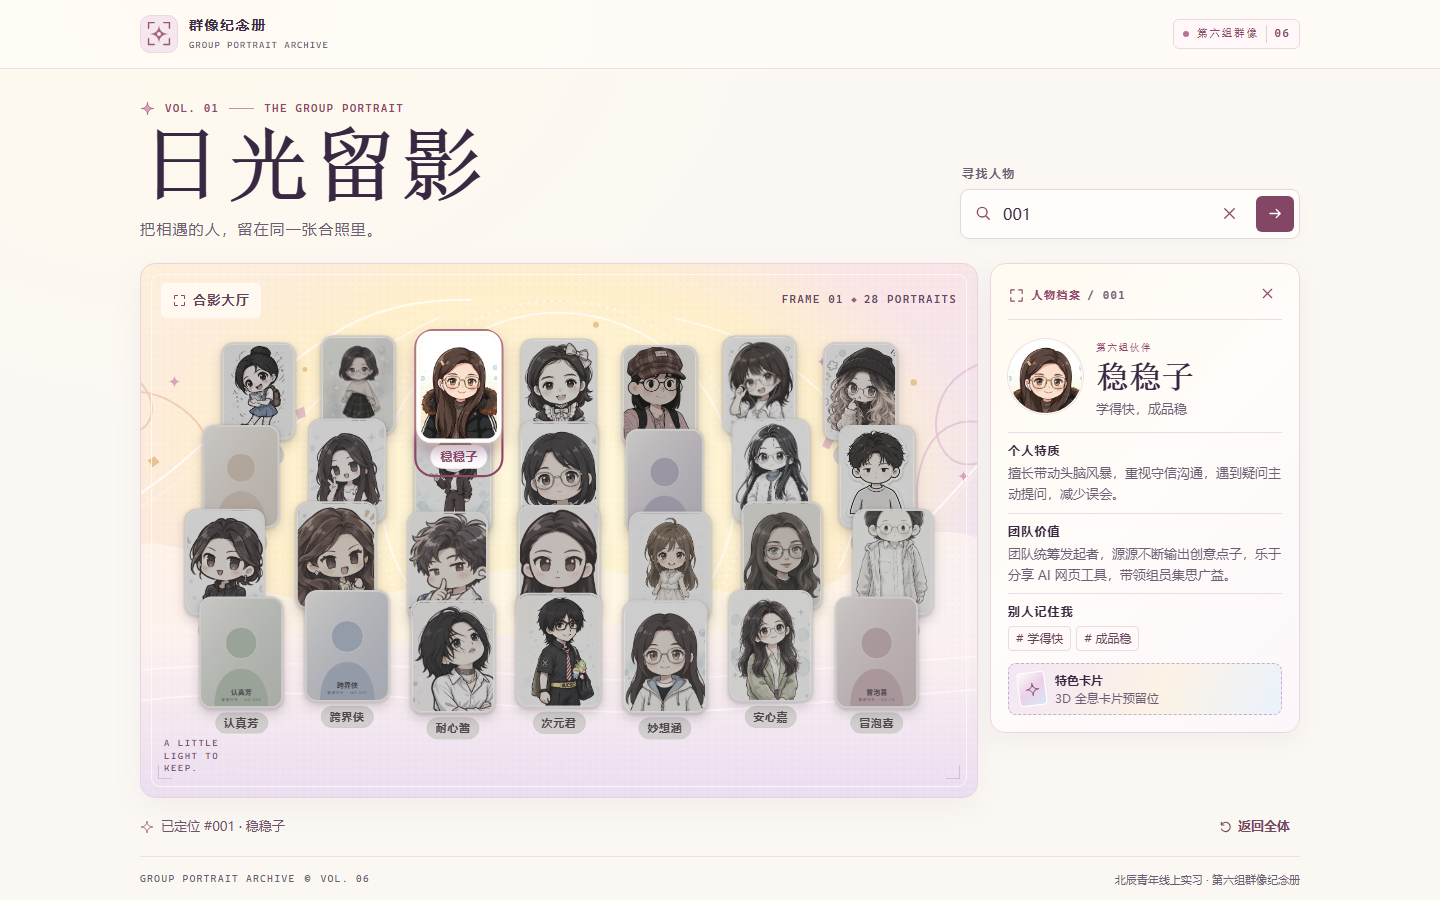
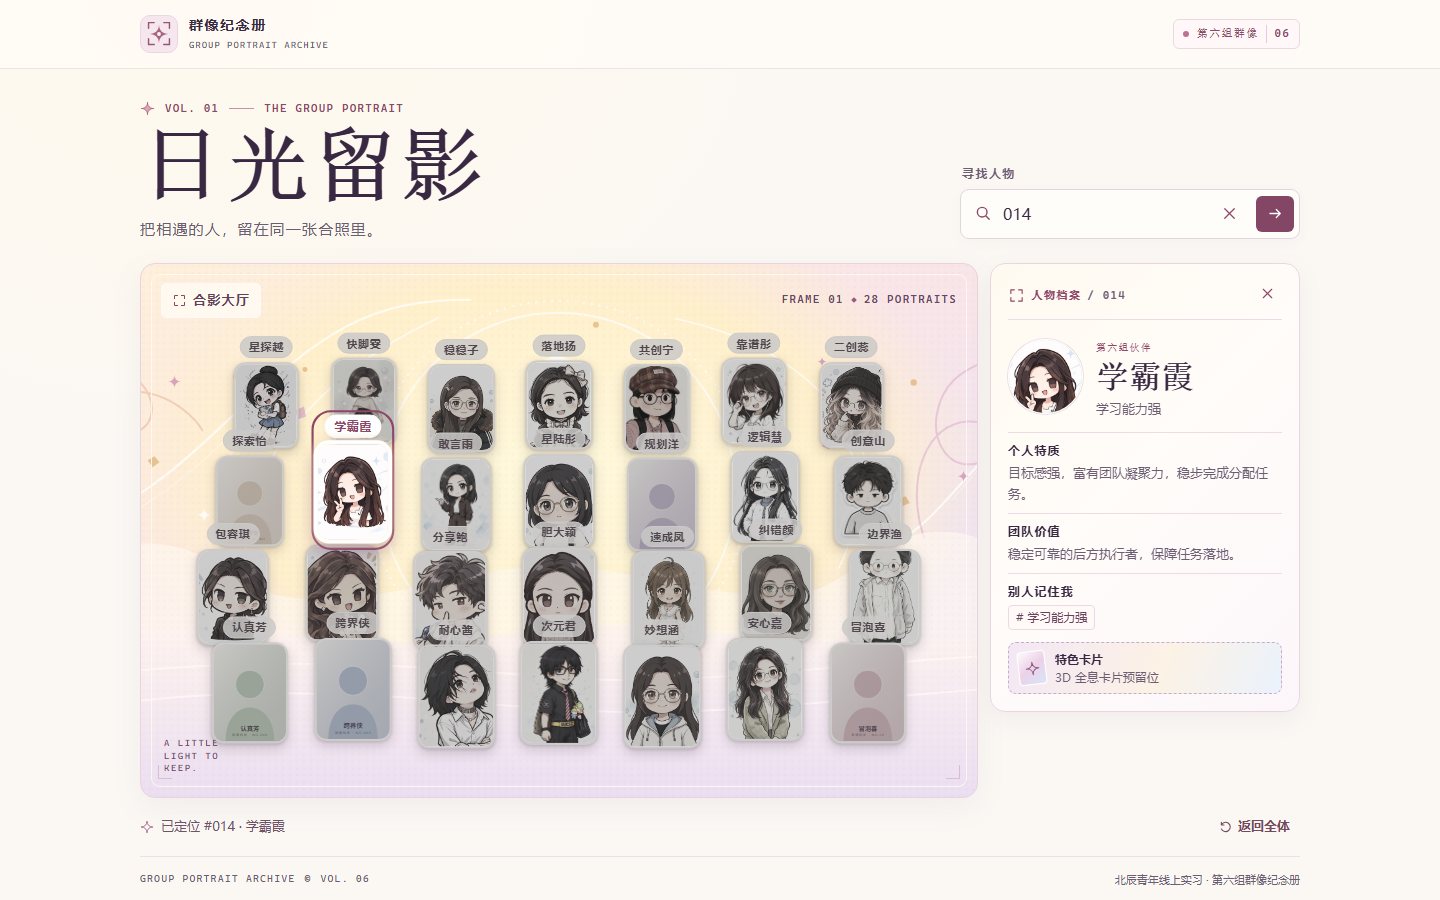
feat: 成员名片专属直达链接 + 合影排布优化
- components/portrait-hall.tsx: 支持 ?member=014 / ?member=化名 深链接直接翻开名片，地址栏随当前名片同步更新，方便分享与现场演示
- data/portrait-layout.ts: 排距 16%→18%、减小抖动，后排脸部不再被前排遮挡
- app/globals.css: 名字牌移至卡片上方，28 个名字全部可见；手机端卡片微调放大，3 字化名不再截断
- docs/screenshots: 同步新排布截图

diff --git a/data/portrait-layout.ts b/data/portrait-layout.ts
@@ -23,7 +23,7 @@ function arrangeRows(rows: Row[], baseScale: number, stepScale: number) {
       const center = 1 - Math.abs(fraction * 2 - 1)
       positions[slot] = {
         x: left + (right - left) * fraction,
-        y: y + center * 1.2 + (index % 2 ? -0.9 : 0.7),
+        y: y + center * 1 + (index % 2 ? -0.55 : 0.45),
         scale: baseScale + depth * stepScale + center * 0.03,
         layer: depth + 1,
       }
@@ -33,18 +33,18 @@ function arrangeRows(rows: Row[], baseScale: number, stepScale: number) {
 }
 
 export const desktopPositions = arrangeRows([
-  { slots: [6, 17, 1, 15, 13, 16, 24], left: 14, right: 86, y: 26 },
-  { slots: [7, 14, 11, 19, 22, 25, 21], left: 12, right: 88, y: 42 },
-  { slots: [20, 2, 18, 12, 10, 23, 26], left: 10, right: 90, y: 58 },
-  { slots: [8, 3, 4, 5, 9, 27, 28], left: 12, right: 88, y: 75 },
-], 0.88, 0.04)
+  { slots: [6, 17, 1, 15, 13, 16, 24], left: 15, right: 85, y: 24 },
+  { slots: [7, 14, 11, 19, 22, 25, 21], left: 13, right: 87, y: 42 },
+  { slots: [20, 2, 18, 12, 10, 23, 26], left: 11, right: 89, y: 60 },
+  { slots: [8, 3, 4, 5, 9, 27, 28], left: 13, right: 87, y: 78 },
+], 0.84, 0.05)
 
 export const mobilePositions = arrangeRows([
-  { slots: [6, 17, 1, 13, 16, 24], left: 17, right: 83, y: 24 },
-  { slots: [7, 14, 15, 22, 21, 25], left: 14, right: 86, y: 37 },
-  { slots: [20, 11, 18, 12, 10, 26], left: 11, right: 89, y: 50 },
-  { slots: [2, 8, 19, 23, 27], left: 16, right: 84, y: 63 },
-  { slots: [3, 9, 4, 5, 28], left: 17, right: 83, y: 77 },
-], 0.86, 0.04)
+  { slots: [6, 17, 1, 13, 16, 24], left: 17, right: 83, y: 21 },
+  { slots: [7, 14, 15, 22, 21, 25], left: 14, right: 86, y: 36 },
+  { slots: [20, 11, 18, 12, 10, 26], left: 11, right: 89, y: 51 },
+  { slots: [2, 8, 19, 23, 27], left: 16, right: 84, y: 66 },
+  { slots: [3, 9, 4, 5, 28], left: 17, right: 83, y: 81 },
+], 0.82, 0.045)
 
 export type { Placement }

diff --git a/components/portrait-hall.tsx b/components/portrait-hall.tsx
@@ -96,6 +96,7 @@ export default function PortraitHall() {
   const [selectedId, setSelectedId] = useState<string | null>(null)
   const searchRef = useRef<HTMLInputElement>(null)
   const stageRef = useRef<HTMLDivElement>(null)
+  const deepLinkDone = useRef(false)
   const selected = members.find((member) => member.memberId === selectedId)
   const term = query.normalize('NFKC').trim().toLowerCase().replace(/^#\s*/, '')
   const matches = term ? members.filter(({ memberNumber, nickname }) =>
@@ -171,6 +172,27 @@ export default function PortraitHall() {
     window.addEventListener('keydown', handleEscape)
     return () => window.removeEventListener('keydown', handleEscape)
   }, [selectedId, showResults, term])
+
+  // 深链接：?member=014 或 #014 直接翻开某位成员的名片，方便现场演示和单独分享。
+  useEffect(() => {
+    if (deepLinkDone.current) return
+    deepLinkDone.current = true
+    const params = new URLSearchParams(window.location.search)
+    const target = (params.get('member') || window.location.hash.replace(/^#/, '')).trim()
+    if (!target) return
+    const normalized = /^\d+$/.test(target) ? target.padStart(3, '0') : target
+    const found = members.find((member) => member.memberNumber === normalized || member.nickname === target)
+    if (found) selectMember(found.memberId, true)
+  }, [])
+
+  // 地址栏始终跟着当前名片走，复制出去就是这位成员的直达链接。
+  useEffect(() => {
+    const url = new URL(window.location.href)
+    const current = members.find((member) => member.memberId === selectedId)
+    if (current) url.searchParams.set('member', current.memberNumber)
+    else url.searchParams.delete('member')
+    window.history.replaceState(null, '', `${url.pathname}${url.search}${url.hash}`)
+  }, [selectedId])
 
   return (
     <>

diff --git a/app/globals.css b/app/globals.css
@@ -84,7 +84,7 @@ button svg, .micro svg, .stage-title svg, .stage-toolbar svg { width: 19px; heig
 .stage-corner-right { right: 17px; border-right: 1px solid #a16d924d; }
 
 .portrait {
-  --width: min(10cqw, 124px);
+  --width: min(9.2cqw, 116px);
   position: absolute;
   z-index: var(--layer);
   left: var(--x);
@@ -102,7 +102,7 @@ button svg, .micro svg, .stage-title svg, .stage-toolbar svg { width: 19px; heig
 }
 .portrait img {
   display: block;
-  grid-area: 1 / 1;
+  grid-area: 2 / 1;
   width: 100%;
   aspect-ratio: 3 / 4;
   object-fit: cover;
@@ -113,7 +113,7 @@ button svg, .micro svg, .stage-title svg, .stage-toolbar svg { width: 19px; heig
   box-shadow: 0 5px 12px #533c5438, 0 1px 3px #533c5430;
 }
 .portrait-name {
-  grid-area: 2 / 1;
+  grid-area: 1 / 1;
   max-width: 100%;
   overflow: hidden;
   text-overflow: ellipsis;
@@ -211,8 +211,8 @@ button svg, .micro svg, .stage-title svg, .stage-toolbar svg { width: 19px; heig
   .stage-corner { bottom: 12px; }
   .stage-corner-left { left: 12px; }
   .stage-corner-right { right: 12px; }
-  .portrait { --width: min(17.5cqw, 92px); z-index: var(--mobile-layer); left: var(--mobile-x); top: var(--mobile-y); width: calc(var(--width) * var(--mobile-scale)); }
-  .portrait-name { font-size: 10px; }
+  .portrait { --width: min(17cqw, 90px); z-index: var(--mobile-layer); left: var(--mobile-x); top: var(--mobile-y); width: calc(var(--width) * var(--mobile-scale)); }
+  .portrait-name { font-size: 9px; padding: 1px 6px; letter-spacing: .04em; }
   .profile { left: 12px; margin-inline: auto; }
   .site-footer { flex-wrap: wrap; gap: 3px 10px; }
 }

diff --git a/README.md b/README.md
@@ -1,6 +1,6 @@
 # 群像纪念册 · 日光留影
 
-北辰青年线上实习 · 第六组的 28 人群像。桌面四排，从后往前各 7、7、7、7 人。手机五排，从后往前各 6、6、6、5、5 人。合影以圆角卡片展示成员形象，点击卡片可以打开个人资料，也可以输入编号或查找名称，从搜索结果定位人物。打开个人资料后，其余人物会变暗，点舞台空白处、关闭资料或按 Esc 可以取消选择。清空搜索和「返回全体」会一并恢复整张合照。
+北辰青年线上实习 · 第六组的 28 人群像。桌面四排，从后往前各 7、7、7、7 人。手机五排，从后往前各 6、6、6、5、5 人。合影以圆角卡片展示成员形象，点击卡片可以打开个人资料，也可以输入编号或查找名称，从搜索结果定位人物。打开个人资料后，其余人物会变暗，点舞台空白处、关闭资料或按 Esc 可以取消选择。每个成员都有专属直达链接：访问 `/?member=014`（或 `/?member=稳稳子`）会直接翻开对应名片，地址栏也会随当前名片同步更新，方便分享和现场演示。清空搜索和「返回全体」会一并恢复整张合照。
 
 ![28 人桌面合影](docs/screenshots/desktop.png)
 
